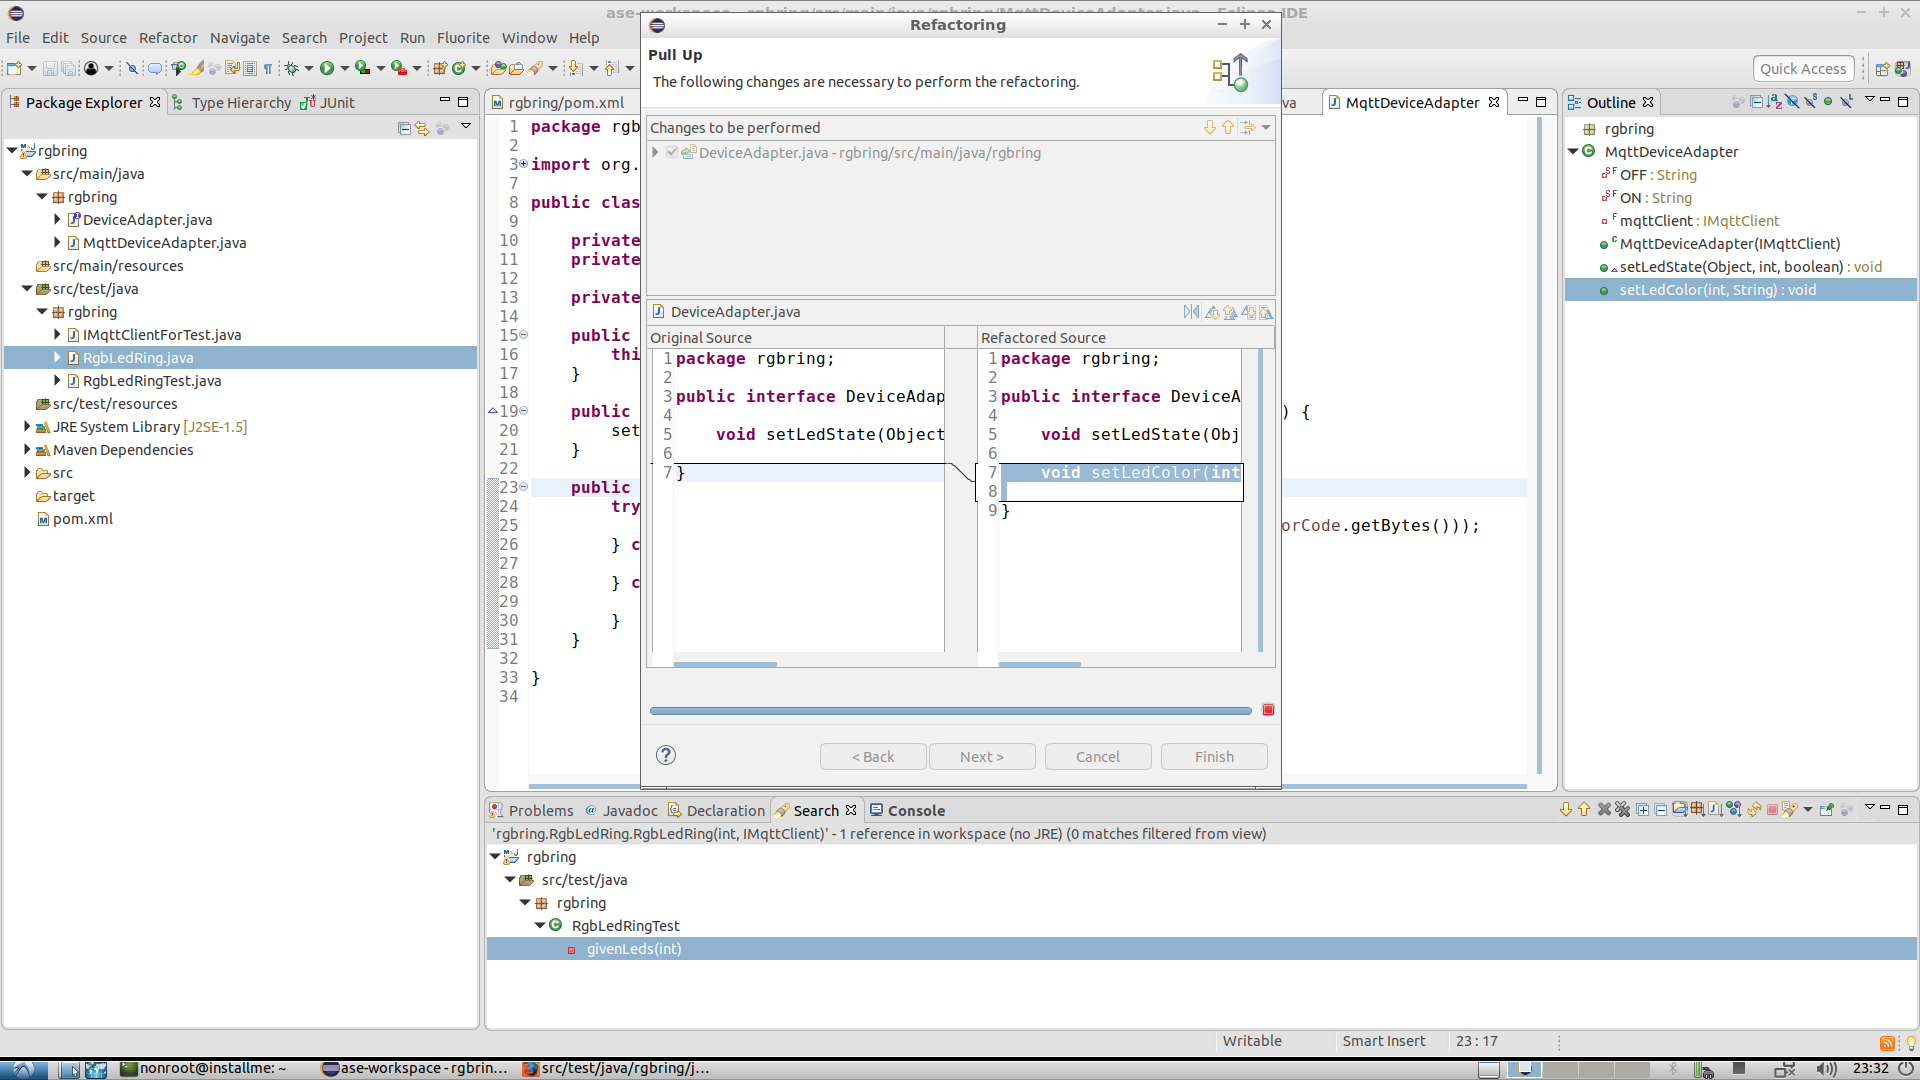
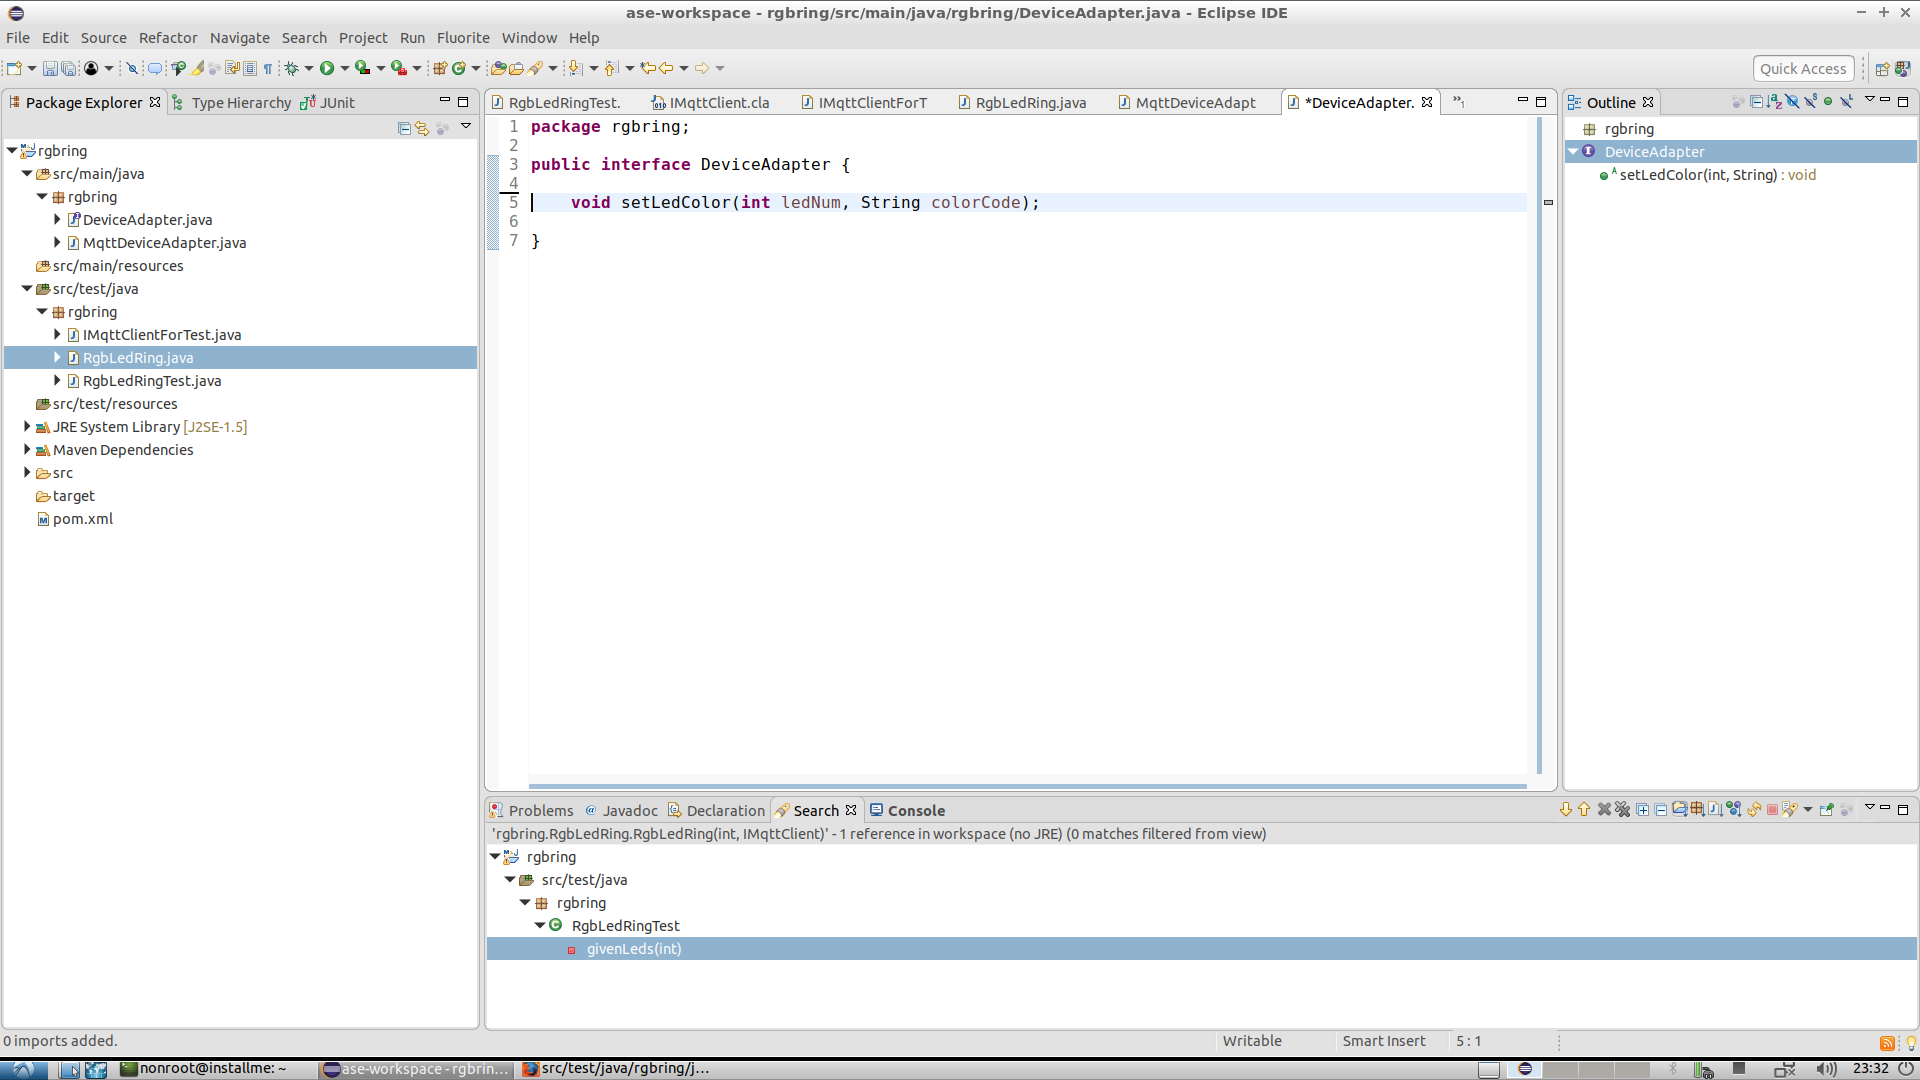
autocommit on change

diff --git a/src/main/java/rgbring/DeviceAdapter.java b/src/main/java/rgbring/DeviceAdapter.java
@@ -2,8 +2,6 @@ package rgbring;
 
 public interface DeviceAdapter {
 
-	void setLedState(Object rgbLedRing, int ledNum, boolean ledState);
-
 	void setLedColor(int ledNum, String colorCode);
 
 }
